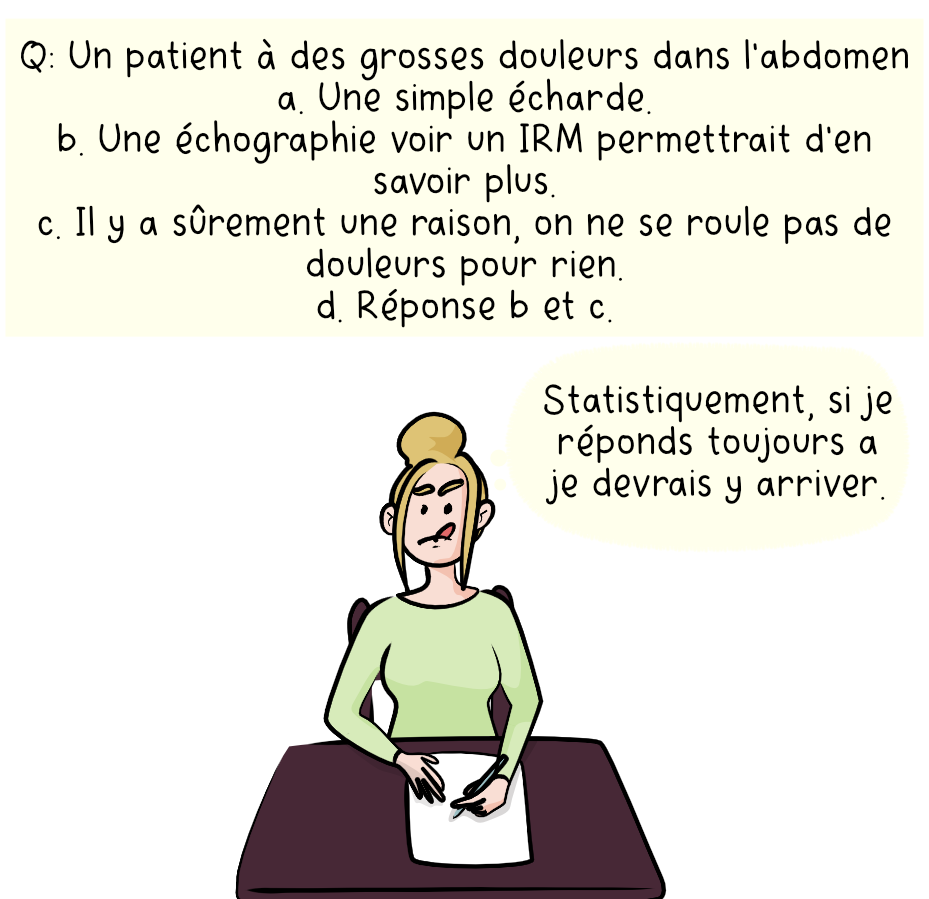
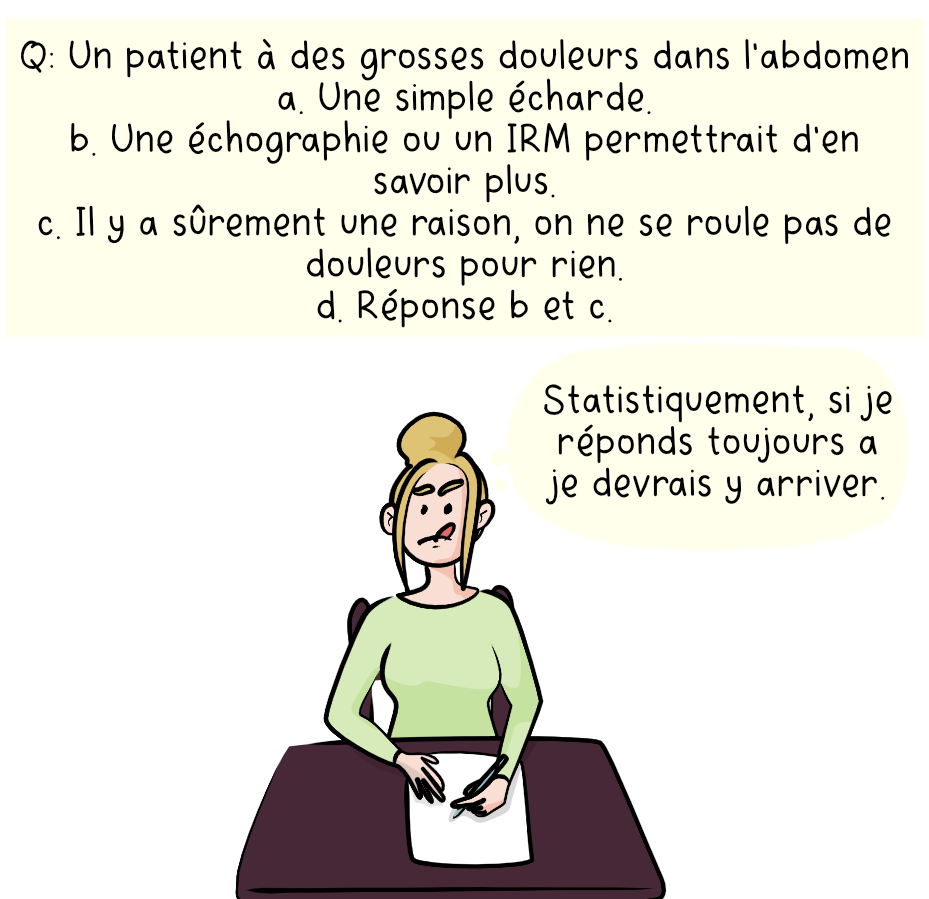
correction fautes partie 1

Changed region(s): [[0.0624, 0.1246, 0.9365, 0.1869]]

diff --git a/roman-graphique/partie-1-le-deni.md b/roman-graphique/partie-1-le-deni.md
@@ -66,7 +66,7 @@ previous: /roman-graphique/endometriose.html
   <video loop muted autoplay>
     <source src="/assets/roman-graphique/partie7-la-depression/taupe.mp4">
   </video>
-  <p>Encore aujourd'hui, je n'ai pas la réponse à ses questions…</p>
+  <p>Encore aujourd'hui, je n'ai pas la réponse à ces questions…</p>
   <p>Heureusement, lors de mes études, j'ai fait la connaissance de Sophie, une amie qui étrangement avait des douleurs et problèmes très similaires aux miens. On était les deux retardataires et absentes de la promo et en parlant avec elle, on a pu faire la liste de nos symptômes communs :</p>
   <ul>
     <li>Fatigue</li>
